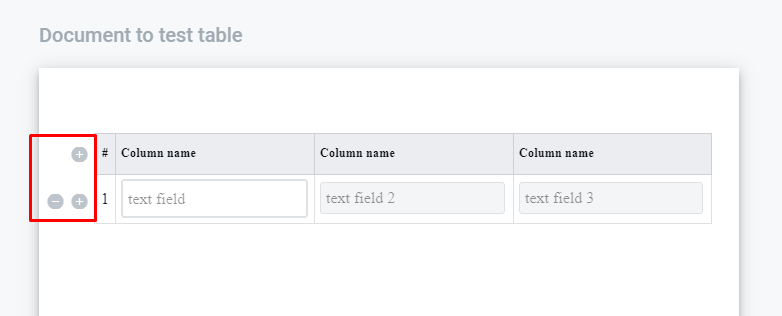
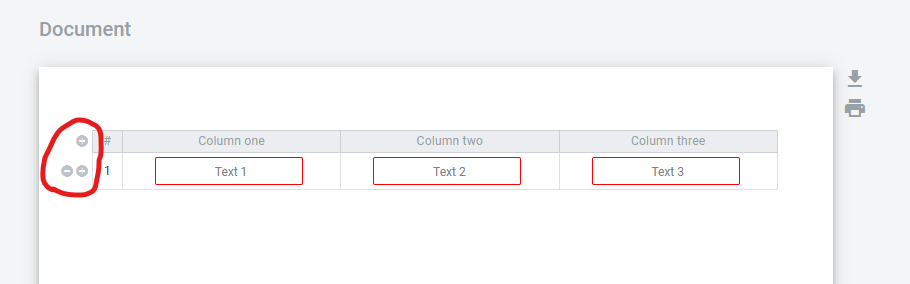
Updated info on table field + a lot of syntax fixes in other files

Changed region(s): [[0.0307, 0.2254, 0.9514, 1.0], [0.0307, 0.0845, 0.3069, 0.1408]]

diff --git a/docs/source/pages/apiIntegration/templateEnvelopeStructure/templateFields.rst b/docs/source/pages/apiIntegration/templateEnvelopeStructure/templateFields.rst
@@ -9,7 +9,6 @@ Template Dynamic Fields
 
  - multilines - boolean, multiline or single line text, multiline should be textarea on UI, optional, default false
 
-
 +---------------------------------------------------------------------------------------------------------------------------------+
 |                                                       Number field                                                              |
 +=================================================================================================================================+
@@ -18,7 +17,6 @@ Template Dynamic Fields
 
  - min, max - default 'infinite'
  - precision - default 0
-
 
 +---------------------------------------------------------------------------------------------------------------------------------+
 |                                                       Money field                                                               |
@@ -29,7 +27,6 @@ Template Dynamic Fields
  - max - default 'infinite'
  - min - default 0
  - precision = 2 (always)
-
 
 +---------------------------------------------------------------------------------------------------------------------------------+
 |                                                   Datetime field                                                                |
@@ -43,7 +40,6 @@ Template Dynamic Fields
      - 2019-12-31T23:59:59Z
  - time - optional (send only if true)
 
-
 +-------------------------------------------------------------------------------------------------------------------------------------------------------------------+
 |                                                    Select-dictionary field (Dropdown)                                                                             |
 +===================================================================================================================================================================+
@@ -53,7 +49,6 @@ Template Dynamic Fields
  - "allow-custom-value" - allow choose custom value if not exists in dictionary
  - dictionaryUuid - dictionary uuid for dict|strict-dict subtypes, optional, required for dict|strict-dict
  - columnUuid - uuid of dictionary column, which value should be taken as text value
-
 
 +-------------------------------------------------------------------------------------------------------------------------------------------------------------------+
 |                                                                       Lookup field                                                                                |
@@ -65,7 +60,6 @@ Template Dynamic Fields
  - documentId - document id from which we take dictionary field
  - columnUuid - uuid of dictionary column, which value should be taken as text value
 
-
 +-------------------------------------------------------------------------------------------------------------------------------------------------------------------+
 |                                                                       E-sign field                                                                                |
 +===================================================================================================================================================================+
@@ -74,7 +68,6 @@ Template Dynamic Fields
 
 Field value size limited up to 10kb. Field value - base64 encoded png image, size up to 300x300
 
-
 +-------------------------------------------------------------------------------------------------------------------------------------------------------------------+
 |                                                                       Yes/No field                                                                                |
 +===================================================================================================================================================================+
@@ -82,7 +75,6 @@ Field value size limited up to 10kb. Field value - base64 encoded png image, siz
 +-------------------------------------------------------------------------------------------------------------------------------------------------------------------+
 
 Values: exact value from template attribute valueYes or from template attribute valueNo.
-
 
 +-------------------------------------------------------------------------------------------------------------------------------------------------------------------+
 |                                                                  Dynamic Table                                                                                    |
@@ -106,7 +98,6 @@ Values: exact value from template attribute valueYes or from template attribute 
             </tr>
         </tbody>
     </table>
-
 
 +-------------------------------------------------------------------------------------------------------------------------------------------------------------------+
 |                                                                   Attachment field                                                                                |

diff --git a/docs/source/pages/howToWorkWithPlatform/mainApplication/templateList/templateManagement/documentManagementOnTemplate/structuredDocument/fields/table/table.rst b/docs/source/pages/howToWorkWithPlatform/mainApplication/templateList/templateManagement/documentManagementOnTemplate/structuredDocument/fields/table/table.rst
@@ -4,8 +4,7 @@ Table Field
 
 .. toctree::
 
-Table field allows to customer to add dynamic data (such as text, numeric, currency, date and time, e-ink signature, dictionary and lookup fields.) to the document. 
-Also allows to prepare table exactly of the size which needed for participant of the envelope processing flow (currently restricted by 5 columns and doesn't restricted by rows quantity).
+Table field allows user to add dynamic data to the document. Also it allows to prepare table of exact needed size for participant of the envelope processing flow.
 
 Create Table Field
 ===================
@@ -29,37 +28,42 @@ Create Table Field
 Fill the Table with fields
 ==========================
 
-1. Add table to the document.
+1. Add table to the document
 
-2. Drag and drop needed fields to the table cells, set and save field properties. Next fields can be added to the Table: Text, Number, Currency, Date and time, E-ink signature, Dictionary, Lookup and Duplicate fields. Adding new table inside the table impossible.
+2. Drag and drop needed fields to the table cells, set and save field properties. Next fields can be added to the Table: Text, Number, Currency, Date and time, E-ink signature, Dictionary, Lookup and Duplicate fields. Adding new table inside other table is not supported
 
 Edit Table Field properties
 ===========================
 
-1. Navigate to /template/form/create.
+1. Navigate to /template/form/create
 
 2. Click on the table field in the document
 
 3. Edit field form should appear on the right side
 
-4. Click on "Delete" button will delete field and close edit form
+4. Click on "Delete" button will delete table and close edit form
 
-5. Click on Cancel will close edit form
+5. Click on "Cancel" will close edit form
 
 6. You can change name of the field and role to whom table is assigned
 
-7. Click on "Save" will Save all the changes you mad and close edit form
+7. Click on "Save" will save all the changes you made and close edit form
+
+.. note::
+   If you want to truncate some columns of the table in it's initial state you can click on according column, enable "Initially hidden" attribute in column properties and click "Save". Note that this is supported only for columns which have optional dynamic fields in them. Columns with static text, non-optional fields or empty cells can not be hidden. On the envelope view user will be able to show such columns from the menu on the right end of the table (only columns which have optional fields assigned for viewing user will be presented). If hidden column fields will not be filled during document processing these columns will be excluded from the final version of the document.
 
 Edit Table field content
 ========================
 
 1. Add table to the document
 
-2. Click on the header of the particular column and type the name different from "Column name"
+2. Click on the header of a column and type the name different from from defaul "Column name" value
 
 3. Name of the column has been updated
 
-4. At the header you're able to add or remove column of the table using "+" and "-" buttons (max quantity of the table columns 5), if you press "-" of the last column table will be removed
+4. At the header you're able to add or remove column of the table using "+" and "-" buttons, if you press "-" of the last column table will be removed
+
+5. You also can change vertical text alignment in the header right click menu for each column
 
 Fill table field as owner
 =========================
@@ -70,14 +74,12 @@ Only owner of the table has management buttons to add or remove rows "+" and "-"
    :width: 600
    :align: center
 
-Each added row would be added with fields and fields properties which has been added at the template.
+Each added row will be added with same fields which were added to the first row.
 
 .. image:: pic_table/tableFieldEnvelopeAddedRows.png
    :width: 600
    :align: center
 
-As soon as table owner added table rows and fill all necessary data to the document he is able to send the document according to the flow. As an owner of the table could be one of the participants of the processing flow.
+When table owner added table rows and filled all mandatory fields he can send the document according to the flow. As an owner of the table he can be one of the participants of the processing flow.
 
-Currently validation of the processing flow and table relation is not present.
-
-The rest of the participants are able just to fill the fields inside the table with required data.
+The rest of the participants only can edit fields in the table assigned to them.

diff --git a/docs/source/pages/howToWorkWithPlatform/mainApplication/templateList/templateManagement/documentManagementOnTemplate/structuredDocument/fields/digitalSignature/download/downloadTheSignedData.rst b/docs/source/pages/howToWorkWithPlatform/mainApplication/templateList/templateManagement/documentManagementOnTemplate/structuredDocument/fields/digitalSignature/download/downloadTheSignedData.rst
@@ -47,16 +47,12 @@ What are you downloading?
 You download the archive with the zip extension.
 
 * If you download a specific document.
-Inside the archive will be a file with the extension .pdf, a file with the extension .xml, files with captions in .p7s format (qunatity of files
-depends on qunatity of signers nultiple twice for each document), signing certificate with .pdf extension and name: DocumentName.signatures.pdf. 
-Where DocumentName it's name of the document you downloaded and printable version of the document with .pdf extension which include visual expression of signatures and 
-signing certificate in one file.
+
+Inside the archive will be a file with the extension .pdf, a file with the extension .xml, files with captions in .p7s format (qunatity of files depends on qunatity of signers nultiple twice for each document), signing certificate with .pdf extension and name: DocumentName.signatures.pdf. Where DocumentName it's name of the document you downloaded and printable version of the document with .pdf extension which include visual expression of signatures and signing certificate in one file.
 
 * If you download the entire envelope.
-There will be several folders inside the archive (if the envelope consists of several documents).
-Folder names match document names accordingly.
-Inside their folders are the above-mentioned files (pdf, xml and p7s), as well as an AuditTrail file.
 
+There will be several folders inside the archive (if the envelope consists of several documents). Folder names match document names accordingly. Inside their folders are the above-mentioned files (pdf, xml and p7s), as well as an AuditTrail file.
 
 The signing document certificate
 ================================
@@ -80,8 +76,7 @@ In the signing document certificate you can find information about the document,
    :width: 600
    :align: center
 
-2. Section about the signer, sign and/or stamp contains (if it's signature you will see key icon opposite table block with data and if it's stamp 
-you will see stamp icon opposite table block with data):
+2. Section about the signer, sign and/or stamp contains (if it's signature you will see key icon opposite table block with data and if it's stamp you will see stamp icon opposite table block with data):
 
 * Owner - name of the signature owner
 * Organization - name of the organiztion to which signature belongs
@@ -104,8 +99,7 @@ you will see stamp icon opposite table block with data):
 Printable version of the document
 =================================
 
-Printable version of the document you can get in two ways. First is described before and you can it download with signed data in archive. The second one is to 
-open document to print from envelope page.
+Printable version of the document you can get in two ways. First is described before and you can it download with signed data in archive. The second one is to open document to print from envelope page.
 
 1. As soon as document completed you will see icon "Print" near document.
 

diff --git a/docs/source/pages/howToWorkWithPlatform/mainApplication/approve/approveManagement/approveManagement.rst b/docs/source/pages/howToWorkWithPlatform/mainApplication/approve/approveManagement/approveManagement.rst
@@ -26,16 +26,19 @@ Approval is a module with the functionality of viewing the list, filter and sear
    :align: center
 
 * At this page user can watch folders (in left side)
+
 .. image:: pic_approveManagement/approve-folder.png
    :width: 600
    :align: center
 
 * Filters and search which user can use (in top side)
+
 .. image:: pic_approveManagement/approve-filters.png
    :width: 600
    :align: center
 
 * At the main screen user can watch table with envelopes list respectively to filters has been set or search query
+
 .. image:: pic_approveManagement/approve-list-row.png
    :width: 600
    :align: center
@@ -43,11 +46,13 @@ Approval is a module with the functionality of viewing the list, filter and sear
 * Page url is automatically set filters, so user can copy/send page URL to another user, and user can watch filtered content from url
 
 * At the bottom of page user can watch paginator for change listing page
+
 .. image:: pic_approveManagement/approve-paginator.png
    :width: 600
    :align: center
 
 * When you click on the status in the tooltip displays the entire history of the approval flow of the envelope
+
 .. image:: pic_approveManagement/status-view.png
    :width: 600
    :align: center

diff --git a/docs/source/pages/howToWorkWithPlatform/mainApplication/dashboard/dashboardOverview/dashboardOverview.rst b/docs/source/pages/howToWorkWithPlatform/mainApplication/dashboard/dashboardOverview/dashboardOverview.rst
@@ -20,9 +20,7 @@ To do this follow instructions:
    :width: 400
    :align: center
 
-2. As soon as you click on "Upload document" modal window for drag and drop files opens and over it opens file manager of you computer. Where you
- can select files to upload (you're able to upload any quantity of files, but limit of the all of them shouldn't be more than 25MB and each file
-shouldn't be more than 5MB)
+2. As soon as you click on "Upload document" modal window for drag and drop files opens and over it opens file manager of you computer. Where you can select files to upload (you're able to upload any quantity of files, but limit of the all of them shouldn't be more than 25MB and each file shouldn't be more than 5MB)
 
 .. image:: pic_dashboardOverview/dragAndDropModal.png
    :width: 400

diff --git a/docs/source/pages/apiIntegration/methods/account/users.rst b/docs/source/pages/apiIntegration/methods/account/users.rst
@@ -1,6 +1,6 @@
-===============
+=======================
 Account corporate users
-===============
+=======================
 
 .. toctree::
 
@@ -10,7 +10,7 @@ Account can have corporate users, which belongs to account's domain names. Befor
 
 
 1. Download example file
-=====================
+========================
 
 Returns example XLSX binary with all available roles, permissions and mailboxes for account.
 
@@ -34,7 +34,7 @@ Returns example XLSX binary with all available roles, permissions and mailboxes 
      - Target account UUID
 
 2. Mass create users
-========================
+====================
 
 Receives XLSX file and create users with permissions. Will return 200 if OK.
 

diff --git a/docs/source/pages/howToWorkWithPlatform/mainApplication/envelope/delegationProcess/delegationProcess.rst b/docs/source/pages/howToWorkWithPlatform/mainApplication/envelope/delegationProcess/delegationProcess.rst
@@ -1,8 +1,8 @@
 .. _send-for-delegation:
 
-=========================
+===========================
 Envelope delegation process
-=========================
+===========================
 
 .. toctree::
 
@@ -45,6 +45,3 @@ How to send envelope for delegation
    :align: center
 
 8. Initiator can cancel delegation, if delegate has not completed envelope. In this case,delegate will lose access to viewing and filling out  envelope. To do this, initiator need to click the cancel button on the processing flow.
-
-
-

diff --git a/docs/source/pages/apiIntegration/methods/envelopeFill.rst b/docs/source/pages/apiIntegration/methods/envelopeFill.rst
@@ -10,7 +10,8 @@ For fill envelope customer should provide data to field which assigned to him by
   :widths:  10, 41
 
 
-**sendEnvelopeDto**
+**sendEnvelopeDTO**
+===================
 
 .. code-block:: JSON
 
@@ -28,4 +29,3 @@ For fill envelope customer should provide data to field which assigned to him by
     </envelope>","uuid":"3e8e9c87-09a1-4b5f-8f1a-2ea3049ed34e"}
 
 All provided data will be filled to appropriated fields and when next recipient open this envelope this data will be shown.
-

diff --git a/docs/source/pages/configuration/configProperties.rst b/docs/source/pages/configuration/configProperties.rst
@@ -21,7 +21,7 @@ User Properties (app.user)
 | **email-validation-code-length** - The number of characters for validation code in e-mail
 
 Locale Properties (app.locales)
-==========================
+===============================
 | **supported** - The list of supported locales (en, ru, uk)
 | **defaultLocale** - The default locale of the platform (for invitations)
 | **defaultCountry** - The default country of the platform (if no coordinates in header)

diff --git a/docs/source/pages/apiIntegration/methods/uploadAttachment.rst b/docs/source/pages/apiIntegration/methods/uploadAttachment.rst
@@ -9,8 +9,7 @@ Upload attachment or external documents
 
 For add file to document, customer should upload this file in binary format to our system by request above. In response on this request customer got data which he should use in envelope for add this file in document in the appropriate field.
 
-Response
-********
+**RESPONSE**
 
 .. code:: json
 
@@ -19,5 +18,3 @@ Response
       "filename": "string",
       "filesize": 0
     }
-
-

diff --git a/docs/source/pages/apiIntegration/methods/envelopeSend.rst b/docs/source/pages/apiIntegration/methods/envelopeSend.rst
@@ -11,6 +11,7 @@
 For create and send envelope customer should know based on what template will be created envelope.
 
 **sendEnvelopeDto**
+===================
 
 .. code-block:: JSON
 
@@ -48,6 +49,5 @@ In response we got envelope uuid:
 .. code-block:: JSON
 
     {"uuid":"89499ba2-287d-404c-87b0-342dc5b01b6a"}
-
 
 Customer can check envelope status by this uuid.

diff --git a/docs/source/pages/howToWorkWithPlatform/mainApplication/templateList/templateManagement/documentManagementOnTemplate/externalDocument/externalDocument.rst b/docs/source/pages/howToWorkWithPlatform/mainApplication/templateList/templateManagement/documentManagementOnTemplate/externalDocument/externalDocument.rst
@@ -57,6 +57,3 @@ To clone the external document you have to do the following:
 1. Click the "More" button - it is the button with three dots - on the document.
 2. Select "Clone" on the menu.
 3. External document has been cloned.
-
--------------------
-
